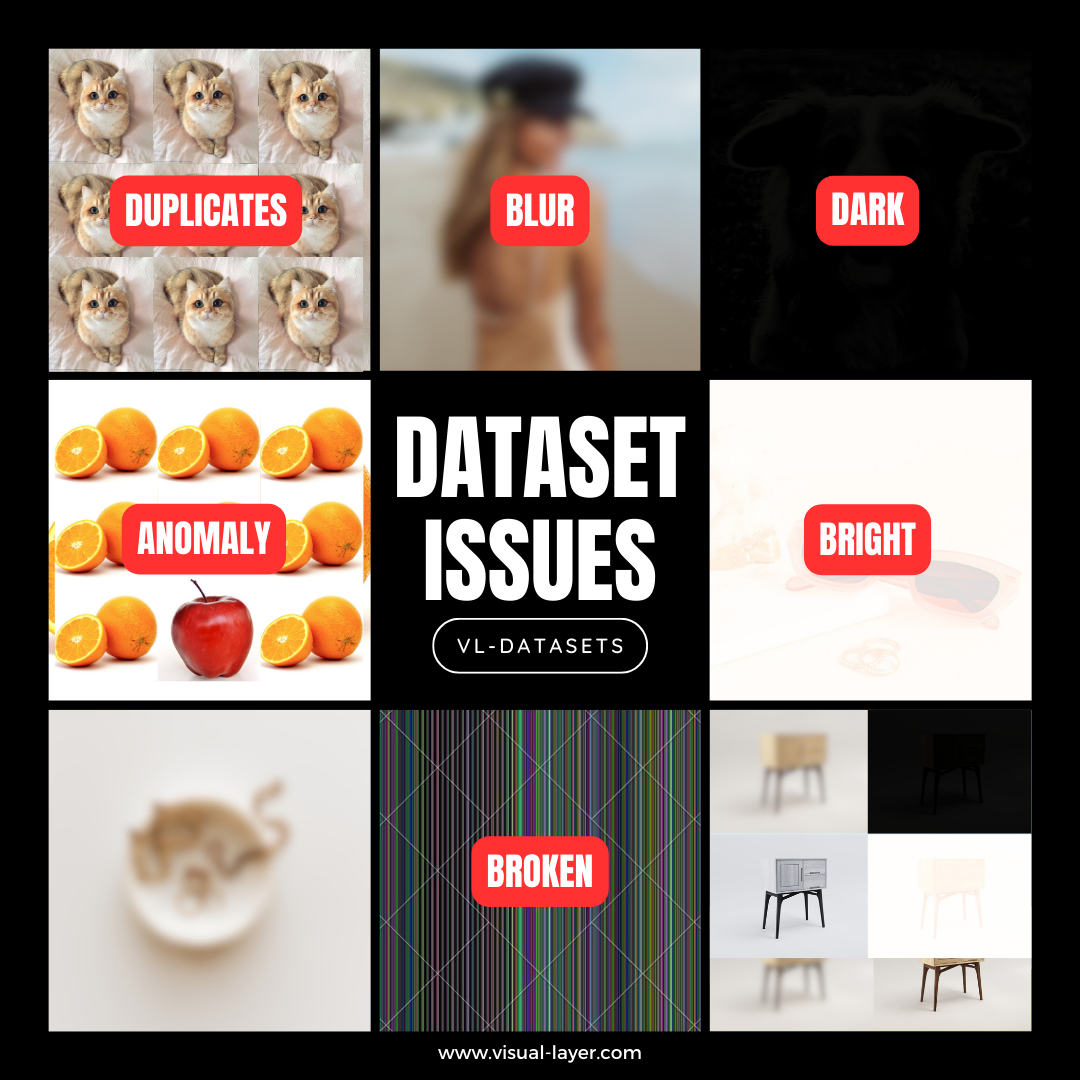
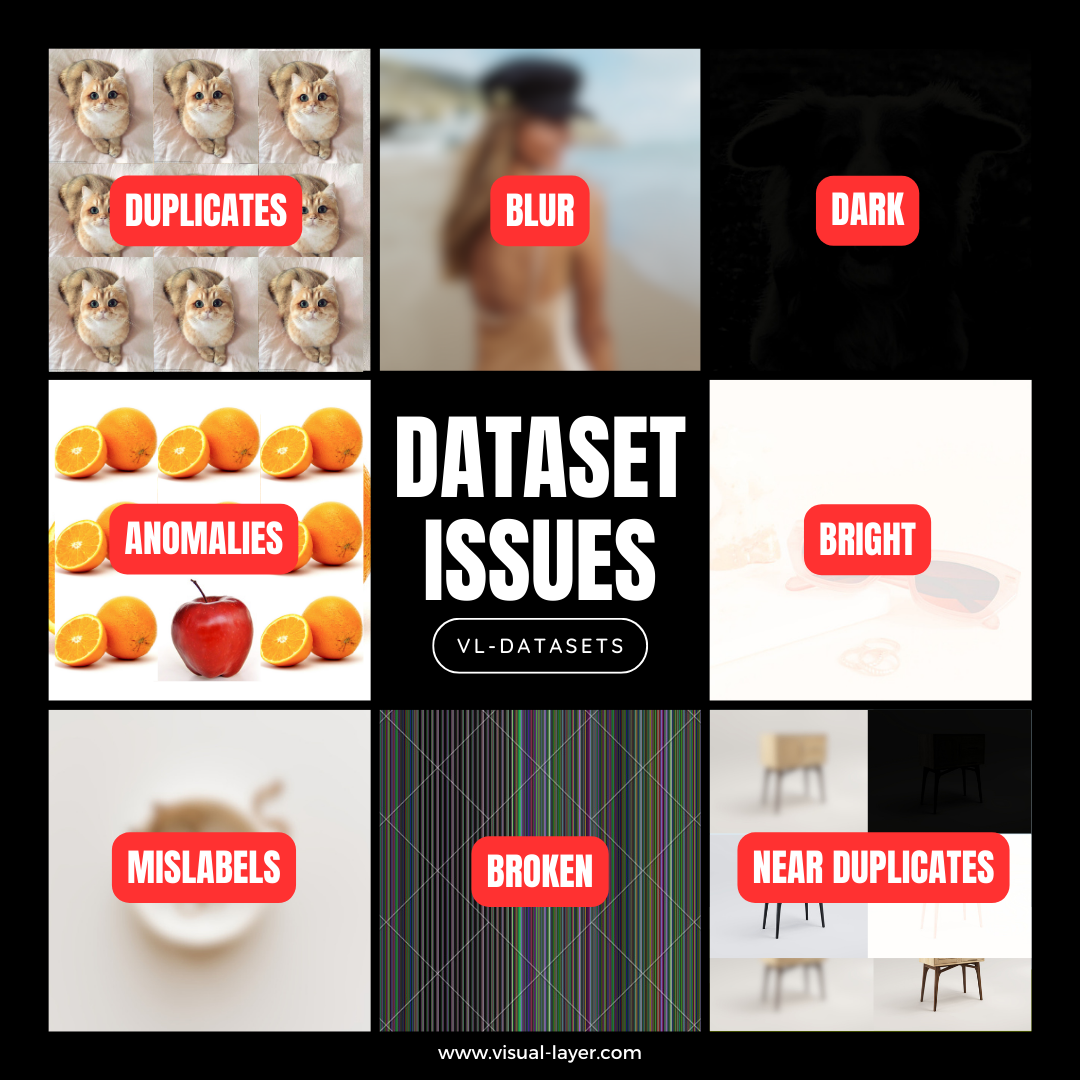
Update Readme (#13)
* remove placeholder values

* add dataset card for food101

* add pets card

* edit class column

* edit class column

* update

* link to card

* update total images

* update images position

* update foods and pets issues in table

* add celeb into table

* add coco

* add imagenet1k

* add imagenet21k

* add kitti

* update table

* update issues iamge

* update

Changed region(s): [[0.6722, 0.7639, 0.9472, 0.8556], [0.0917, 0.7639, 0.275, 0.8556], [0.0917, 0.4583, 0.275, 0.55]]

diff --git a/README.md b/README.md
@@ -89,6 +89,7 @@ All the datasets are analyzed for issues such as:
 + Broken images.
 + Outliers.
 + Dark/Bright/Blurry images.
++ Mislabels.
 
 ![image](./imgs/issues.png)
 
@@ -119,19 +120,19 @@ For access to our complete dataset and exclusive beta features, all we ask is th
 Here is a table of widely used computer vision datasets, issues we found and a link to access the `.csv` file.
 
 
-| Dataset                                                                 | Issues (WIP)                                                                                                                                                                                 | CSV                                                                                                | Class                |
+| Dataset                                                                 | Issues                                                                                                                                                                                 | CSV                                                                                                | Usage                |
 |-------------------------------------------------------------------------|----------------------------------------------------------------------------------------------------------------------------------------------------------------------------------------------|----------------------------------------------------------------------------------------------------|----------------------|
-| [Food-101](https://data.vision.ee.ethz.ch/cvl/datasets_extra/food-101/) | <ul><li>Duplicates - 0.24% (12,345)</li><li>Outliers - 0.85% (456)</li><li>Broken - 0.85% (456)</li><li>Blur - 0.85% (456)</li><li>Dark - 0.85% (456)</li><li>Bright - 0.85% (456)</li></ul> | Download [here](https://drive.google.com/uc?export=download&id=1ZG5GvU342l4YmSeYo6v6LeKbMM5fwjjw). | `CleanFood101`       |
-| [Oxford-IIIT Pet](https://www.robots.ox.ac.uk/~vgg/data/pets/)          | <ul><li>Duplicates - 1.021% (75)</li><li>Outliers - 0.095% (7)</li><li>Broken - 0.000% (0)</li><li>Blur - 0.000% (0)</li><li>Dark - 0.054% (4)</li><li>Bright - 0.000% (0)</li></ul>         | Download [here](https://drive.google.com/uc?export=download&id=1OLa8k4NITnmCHjeByzvGaWt3W7k6R1QL). | `CleanOxfordIIITPet` |
-| [LAION-1B](https://laion.ai/blog/laion-5b/)                             | <ul><li>Duplicates - 0.24% (12,345)</li><li>Outliers - 0.85% (456)</li><li>Broken - 0.85% (456)</li><li>Blur - 0.85% (456)</li><li>Dark - 0.85% (456)</li><li>Bright - 0.85% (456)</li></ul> | Request access [here](https://forms.gle/8jxPkyzeKj82kPed8).                                        | WIP                  |
-| [Imagenet-21k](https://www.image-net.org/)                              | <ul><li>Duplicates - 0.24% (12,345)</li><li>Outliers - 0.85% (456)</li><li>Broken - 0.85% (456)</li><li>Blur - 0.85% (456)</li><li>Dark - 0.85% (456)</li><li>Bright - 0.85% (456)</li></ul> | Request access [here](https://forms.gle/8jxPkyzeKj82kPed8).                                        | WIP                  |
-| [Imagenet-1k](https://www.image-net.org/)                               | <ul><li>Duplicates - 0.24% (12,345)</li><li>Outliers - 0.85% (456)</li><li>Broken - 0.85% (456)</li><li>Blur - 0.85% (456)</li><li>Dark - 0.85% (456)</li><li>Bright - 0.85% (456)</li></ul> | Request access [here](https://forms.gle/8jxPkyzeKj82kPed8).                                        | WIP                  |
-| [KITTI](https://www.cvlibs.net/datasets/kitti/)                         | <ul><li>Duplicates - 0.24% (12,345)</li><li>Outliers - 0.85% (456)</li><li>Broken - 0.85% (456)</li><li>Blur - 0.85% (456)</li><li>Dark - 0.85% (456)</li><li>Bright - 0.85% (456)</li></ul> | Request access [here](https://forms.gle/8jxPkyzeKj82kPed8).                                        | WIP                  |
-| [DeepFashion](http://mmlab.ie.cuhk.edu.hk/projects/DeepFashion.html)    | <ul><li>Duplicates - 0.24% (12,345)</li><li>Outliers - 0.85% (456)</li><li>Broken - 0.85% (456)</li><li>Blur - 0.85% (456)</li><li>Dark - 0.85% (456)</li><li>Bright - 0.85% (456)</li></ul> | Request access [here](https://forms.gle/8jxPkyzeKj82kPed8).                                        | WIP                  |
-| [Places365](https://github.com/CSAILVision/places365)                   | <ul><li>Duplicates - 0.24% (12,345)</li><li>Outliers - 0.85% (456)</li><li>Broken - 0.85% (456)</li><li>Blur - 0.85% (456)</li><li>Dark - 0.85% (456)</li><li>Bright - 0.85% (456)</li></ul> | Request access [here](https://forms.gle/8jxPkyzeKj82kPed8).                                        | WIP                  |
-| [CelebA-HQ](http://mmlab.ie.cuhk.edu.hk/projects/CelebA.html)           | <ul><li>Duplicates - 0.24% (12,345)</li><li>Outliers - 0.85% (456)</li><li>Broken - 0.85% (456)</li><li>Blur - 0.85% (456)</li><li>Dark - 0.85% (456)</li><li>Bright - 0.85% (456)</li></ul> | Request access [here](https://forms.gle/8jxPkyzeKj82kPed8).                                        | WIP                  |
-| [ADE20K](https://groups.csail.mit.edu/vision/datasets/ADE20K/)          | <ul><li>Duplicates - 0.24% (12,345)</li><li>Outliers - 0.85% (456)</li><li>Broken - 0.85% (456)</li><li>Blur - 0.85% (456)</li><li>Dark - 0.85% (456)</li><li>Bright - 0.85% (456)</li></ul> | Request access [here](https://forms.gle/8jxPkyzeKj82kPed8).                                        | WIP                  |
-| [COCO](https://cocodataset.org/#home)                                   | <ul><li>Duplicates - 0.24% (12,345)</li><li>Outliers - 0.85% (456)</li><li>Broken - 0.85% (456)</li><li>Blur - 0.85% (456)</li><li>Dark - 0.85% (456)</li><li>Bright - 0.85% (456)</li></ul> | Request access [here](https://forms.gle/8jxPkyzeKj82kPed8).                                        | WIP                  |
+| [Food-101](./dataset_card/food101.md) | <ul><li>Duplicates - 0.233 % (235)</li><li>Outliers - 0.076 % (77)</li><li>Blur - Blur - 0.183 % (185)</li><li>Dark - 0.043 % (43)</li><li><b>Total</b> - 0.535 % (540)</li></ul> | Download [here](https://drive.google.com/uc?export=download&id=1ZG5GvU342l4YmSeYo6v6LeKbMM5fwjjw). | `from vl_datasets import CleanFood101`       |
+| [Oxford-IIIT Pet](./dataset_card/oxford-iiit-pets.md)          | <ul><li>Duplicates - 1.021% (75)</li><li>Outliers - 0.095% (7)</li><li>Dark - 0.054% (4)</li><li><b>Total</b> - 1.170 % (86)</li></ul>         | Download [here](https://drive.google.com/uc?export=download&id=1OLa8k4NITnmCHjeByzvGaWt3W7k6R1QL). | `from vl_datasets import CleanOxfordIIITPet` |
+| [LAION-1B](https://laion.ai/blog/laion-5b/)                             | <ul><li>Duplicates - WIP % (WIP)</li><li>Outliers - WIP % (WIP)</li><li>Broken - WIP % (WIP)</li><li>Blur - WIP % (WIP)</li><li>Dark - WIP % (WIP)</li><li>Bright - WIP % (WIP)</li></ul> | Request access [here](https://forms.gle/8jxPkyzeKj82kPed8).                                        | WIP                  |
+| [ImageNet-21K](https://www.image-net.org/)                              | <ul><li>Duplicates - 11.853 % (1,559,120)</li><li>Outliers - 0.085 % (11,119)</li><li>Blur - 0.292 % (38,458)</li><li>Dark - 0.179 % (23,574)</li><li>Bright - 0.431 % (56,754)</li><li>Mislabels - 3.064 % (402,963)</li><li><b>Total</b> - 15.904 % (2,091,988)</li></ul> | Request access [here](https://forms.gle/8jxPkyzeKj82kPed8).                                        | WIP                  |
+| [ImageNet-1K](https://www.image-net.org/)                               | <ul><li>Duplicates - 0.520 % (6,660)</li><li>Outliers - 0.090 % (1,150)</li><li>Blur - 0.200 % (2,554)</li><li>Dark - 0.244 % (2,997)</li><li>Bright - 0.058 % (746)</li><li>Mislabels - 0.119 % (1,518)</li><li><b>Total</b> - 1.221 % (15,625)</li></ul> | Request access [here](https://forms.gle/8jxPkyzeKj82kPed8).                                        | WIP                  |
+| [KITTI](https://www.cvlibs.net/datasets/kitti/)                         | <ul><li>Duplicates - 15.294 % (2294)</li><li>Outliers - 0.107 % (16)</li><li><b>Total</b> - 15.401 % (2310)</li></ul> | Request access [here](https://forms.gle/8jxPkyzeKj82kPed8).                                        | WIP                  |
+| [DeepFashion](http://mmlab.ie.cuhk.edu.hk/projects/DeepFashion.html)    | <ul><li>Duplicates - WIP % (WIP)</li><li>Outliers - WIP % (WIP)</li><li>Broken - WIP % (WIP)</li><li>Blur - WIP % (WIP)</li><li>Dark - WIP % (WIP)</li><li>Bright - WIP % (WIP)</li></ul> | Request access [here](https://forms.gle/8jxPkyzeKj82kPed8).                                        | WIP                  |
+| [Places365](https://github.com/CSAILVision/places365)                   | <ul><li>Duplicates - WIP % (WIP)</li><li>Outliers - WIP % (WIP)</li><li>Broken - WIP % (WIP)</li><li>Blur - WIP % (WIP)</li><li>Dark - WIP % (WIP)</li><li>Bright - WIP % (WIP)</li></ul> | Request access [here](https://forms.gle/8jxPkyzeKj82kPed8).                                        | WIP                  |
+| [CelebA-HQ](http://mmlab.ie.cuhk.edu.hk/projects/CelebA.html)           | <ul><li>Duplicates - 1.673 % (3,389)</li><li>Outliers - 0.077 % (157)</li><li>Blur - 0.512 % (1,037)</li><li>Dark - 0.009 % (18)</li><li>Mislabels - 0.006 % (13)</li><li><b>Total</b> - 2.277 % (4,614)</li></ul> | Request access [here](https://forms.gle/8jxPkyzeKj82kPed8).                                        | WIP                  |
+| [ADE20K](https://groups.csail.mit.edu/vision/datasets/ADE20K/)          | <ul><li>Duplicates - WIP % (WIP)</li><li>Outliers - WIP % (WIP)</li><li>Broken - WIP % (WIP)</li><li>Blur - WIP % (WIP)</li><li>Dark - WIP % (WIP)</li><li>Bright - WIP % (WIP)</li></ul> | Request access [here](https://forms.gle/8jxPkyzeKj82kPed8).                                        | WIP                  |
+| [COCO](https://cocodataset.org/#home)                                   | <ul><li>Duplicates - 0.123 % (201)</li><li>Outliers - 0.087 % (143)</li><li>Blur - 0.029 % (47)</li><li>Dark - 0.106 % (174)</li><li>Bright - 0.013 % (21)</li><li><b>Total</b> - 0.358 % (586)</li></ul> | Request access [here](https://forms.gle/8jxPkyzeKj82kPed8).                                        | WIP                  |
 
 
 
@@ -140,7 +141,7 @@ Learn more on how we clean the datasets using our profilling tool [here](https:/
 
 ## Installation
 
-**Option 1** - Install `vl_datasets` package from PyPI:
+**Option 1** - Install `vl_datasets` package from [PyPI](https://pypi.org/project/vl-datasets/):
 
 ```shell
 pip install vl-datasets

diff --git a/dataset_card/food101.md b/dataset_card/food101.md
@@ -1,0 +1,29 @@
+# Dataset Card - Food101
+![datasetimage](https://data.vision.ee.ethz.ch/cvl/datasets_extra/food-101/static/img/food-101.jpg)
+
++ Home page - https://data.vision.ee.ethz.ch/cvl/datasets_extra/food-101/
+
++ Paper - https://data.vision.ee.ethz.ch/cvl/datasets_extra/food-101/static/bossard_eccv14_food-101.pdf
+
++ License - Unknown.
+
++ Total images in dataset - 101,000.
+
+## Summary
+
+A challenging data set of 101 food categories is introduced, consisting of 101,000 images. Each class includes 250 manually reviewed test images and 750 training images. The training images deliberately retain some noise, primarily intense colors and occasional incorrect labels. All images have been rescaled to a maximum side length of 512 pixels.
+
+
+## Issues Found
+Here are some of the issues found.
+
++ Duplicates - 0.233 % (235)
++ Outliers - 0.076 % (77)
++ Broken - 0.000 % (0)
++ Blur - 0.183 % (185)
++ Dark - 0.043 % (43)
++ Bright - 0.000 % (0)
+
+Total problematic images - 0.535% (540 out of 101,000)
+
+Visualize the issues here.

diff --git a/dataset_card/oxford-iiit-pets.md b/dataset_card/oxford-iiit-pets.md
@@ -1,0 +1,30 @@
+# Dataset Card - Oxford IIIT Pets
+![datasetimage](https://www.robots.ox.ac.uk/~vgg/data/pets/pet_annotations.jpg)
+
++ Home page - https://www.robots.ox.ac.uk/~vgg/data/pets/
+
++ Paper - https://www.robots.ox.ac.uk/~vgg/publications/2012/parkhi12a/parkhi12a.pdf
+
+
++ License - [Creative Commons Attribution-ShareAlike 4.0 International License](https://creativecommons.org/licenses/by-sa/4.0/).
+
++ Total images in dataset - 7349.
+
+## Summary
+
+The Oxford-IIIT pet dataset comprises 37 categories of pet images, with approximately 200 images per class. The dataset exhibits significant variations in scale, pose, and lighting. Each image is accompanied by a ground truth annotation indicating the breed.
+
+
+## Issues Found
+Here are some of the issues found.
+
++ Duplicates - 1.021% (75)
++ Outliers - 0.095% (7)
++ Broken - 0.000% (0)
++ Blur - 0.000% (0)
++ Dark - 0.054% (4)
++ Bright - 0.000% (0)
+
+Total problematic images - 1.17% (86 out of 7349)
+
+Visualize the issues here.
